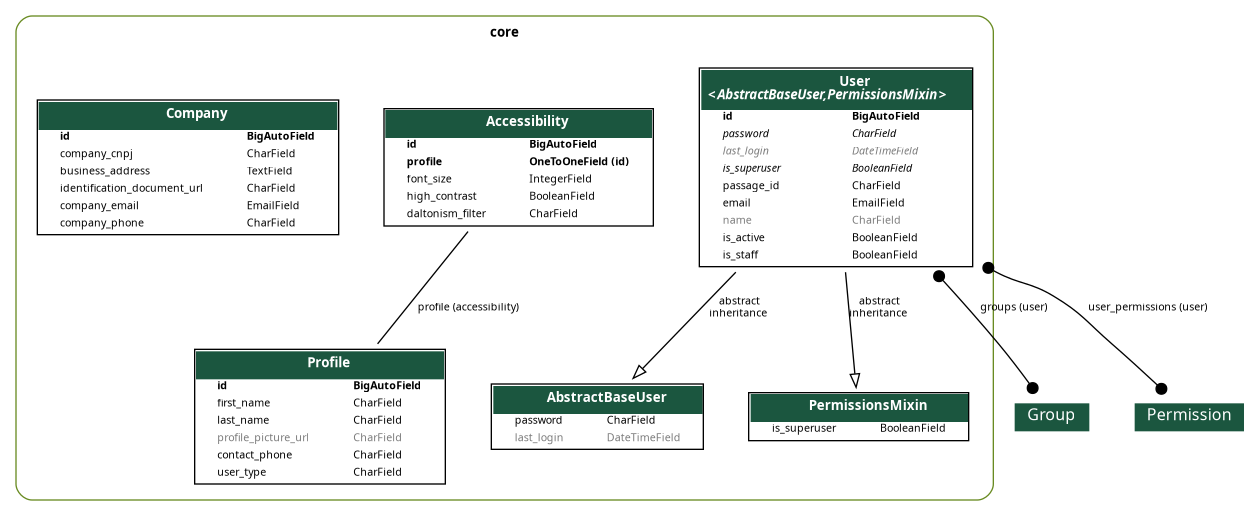
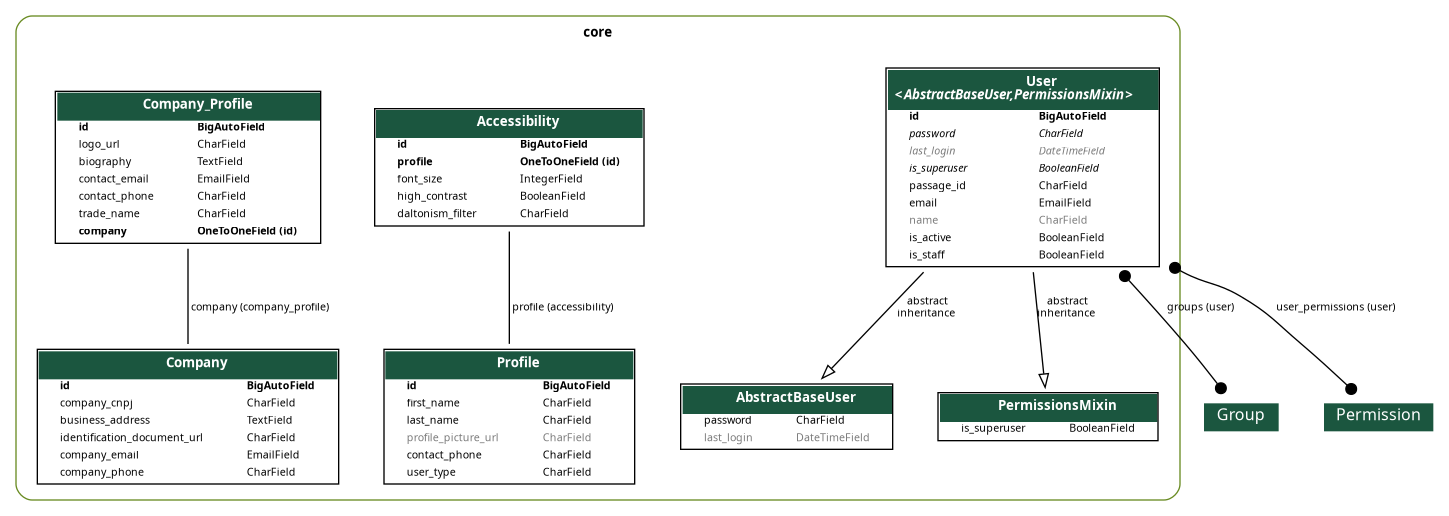
Merge pull request #8 from NextRouter-PI/FEAT-7
feat: criacao de api Company_Profile #7

Pull request: feat: criacao de api Company_Profile #7

diff --git a/core/migrations/0008_company_profile.py b/core/migrations/0008_company_profile.py
@@ -1,0 +1,26 @@
+# Generated by Django 5.2.12 on 2026-04-08 17:52
+
+import django.db.models.deletion
+from django.db import migrations, models
+
+
+class Migration(migrations.Migration):
+
+    dependencies = [
+        ('core', '0007_company_alter_accessibility_profile'),
+    ]
+
+    operations = [
+        migrations.CreateModel(
+            name='Company_Profile',
+            fields=[
+                ('id', models.BigAutoField(auto_created=True, primary_key=True, serialize=False, verbose_name='ID')),
+                ('logo_url', models.CharField(max_length=255)),
+                ('biography', models.TextField()),
+                ('contact_email', models.EmailField(max_length=255)),
+                ('contact_phone', models.CharField(max_length=20)),
+                ('trade_name', models.CharField(max_length=50)),
+                ('company', models.OneToOneField(on_delete=django.db.models.deletion.PROTECT, to='core.company')),
+            ],
+        ),
+    ]

diff --git a/core/models/company_profile.py b/core/models/company_profile.py
@@ -1,0 +1,12 @@
+from django.db import models
+
+from .company import Company
+
+
+class Company_Profile(models.Model):
+    logo_url = models.CharField(max_length=255)
+    biography = models.TextField()
+    contact_email = models.EmailField(max_length=255)
+    contact_phone = models.CharField(max_length=20)
+    trade_name = models.CharField(max_length=50)
+    company = models.OneToOneField(Company, on_delete=models.PROTECT)

diff --git a/core/serializers/company_profile.py b/core/serializers/company_profile.py
@@ -1,0 +1,9 @@
+from rest_framework.serializers import ModelSerializer
+
+from core.models import Company_Profile
+
+
+class Company_ProfileSerializer(ModelSerializer):
+    class Meta:
+        model = Company_Profile
+        fields = '__all__'

diff --git a/core/views/company_profile.py b/core/views/company_profile.py
@@ -1,0 +1,9 @@
+from rest_framework.viewsets import ModelViewSet
+
+from core.models import Company_Profile
+from core.serializers import Company_ProfileSerializer
+
+
+class Company_ProfileViewSet(ModelViewSet):
+    queryset = Company_Profile.objects.all()
+    serializer_class = Company_ProfileSerializer

diff --git a/app/urls.py b/app/urls.py
@@ -1,3 +1,4 @@
+
 from django.contrib import admin
 from django.urls import include, path
 from drf_spectacular.views import (
@@ -7,13 +8,14 @@ from drf_spectacular.views import (
 )
 from rest_framework.routers import DefaultRouter
 
-from core.views import AccessibilityViewSet, CompanyViewSet, ProfileViewSet, UserViewSet
+from core.views import AccessibilityViewSet, Company_ProfileViewSet, CompanyViewSet, ProfileViewSet, UserViewSet
 
 router = DefaultRouter()
 
 router.register(r'usuarios', UserViewSet, basename='usuarios')
 router.register(r'perfis', ProfileViewSet, basename='perfis')
 router.register(r'empresas', CompanyViewSet, basename='empresas')
+router.register(r'perfis_empresa', Company_ProfileViewSet, basename='perfis de empresa')
 router.register(r'acessibilidades', AccessibilityViewSet, basename='acessibilidades')
 
 urlpatterns = [

diff --git a/core/admin.py b/core/admin.py
@@ -55,3 +55,4 @@ admin.site.register(models.User, UserAdmin)
 admin.site.register(models.Profile)
 admin.site.register(models.Accessibility)
 admin.site.register(models.Company)
+admin.site.register(models.Company_Profile)

diff --git a/core/models/__init__.py b/core/models/__init__.py
@@ -2,3 +2,4 @@ from .user import User
 from .profile import Profile
 from .accessibility import Accessibility
 from .company import Company
+from .company_profile import Company_Profile

diff --git a/core/serializers/__init__.py b/core/serializers/__init__.py
@@ -2,3 +2,4 @@ from .user import UserSerializer
 from .profile import ProfileSerializer
 from .accessibility import AccessibilitySerializer
 from .company import CompanySerializer
+from .company_profile import Company_ProfileSerializer

diff --git a/core/views/__init__.py b/core/views/__init__.py
@@ -2,3 +2,4 @@ from .user import UserViewSet
 from .profile import ProfileViewSet
 from .accessibility import AccessibilityViewSet
 from .company import CompanyViewSet
+from .company_profile import Company_ProfileViewSet